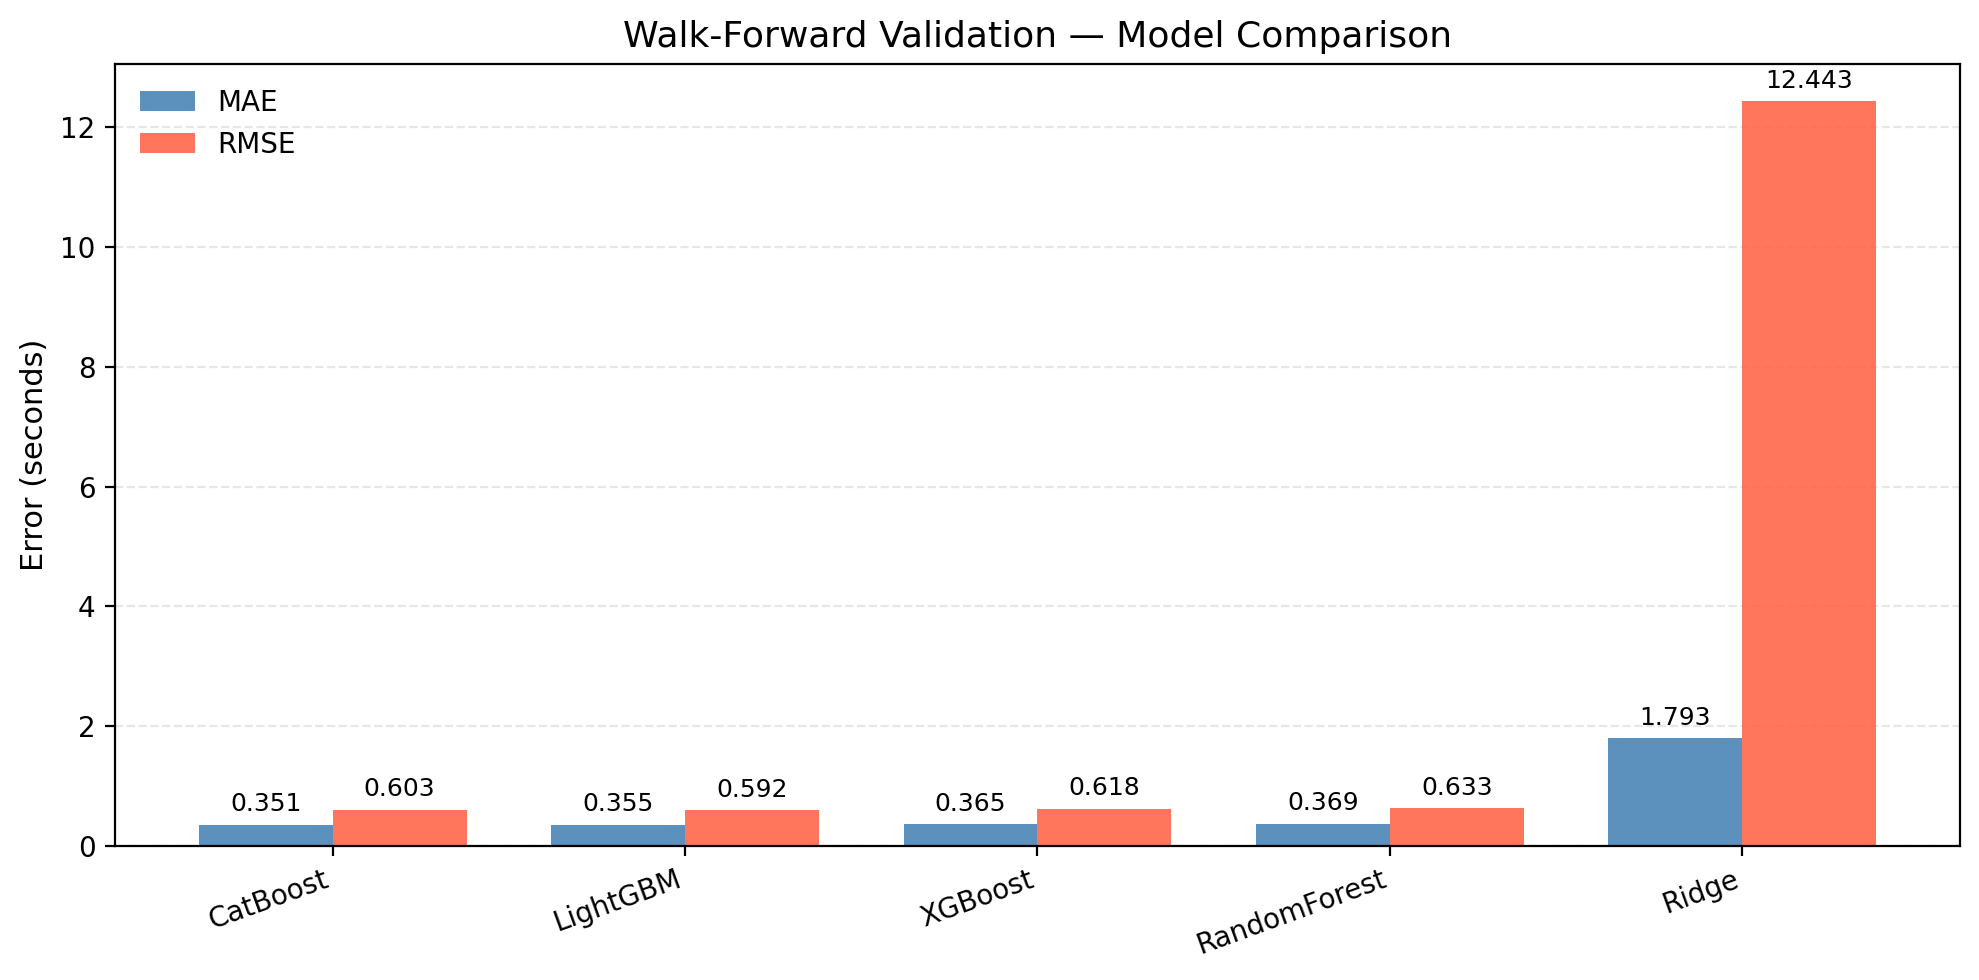
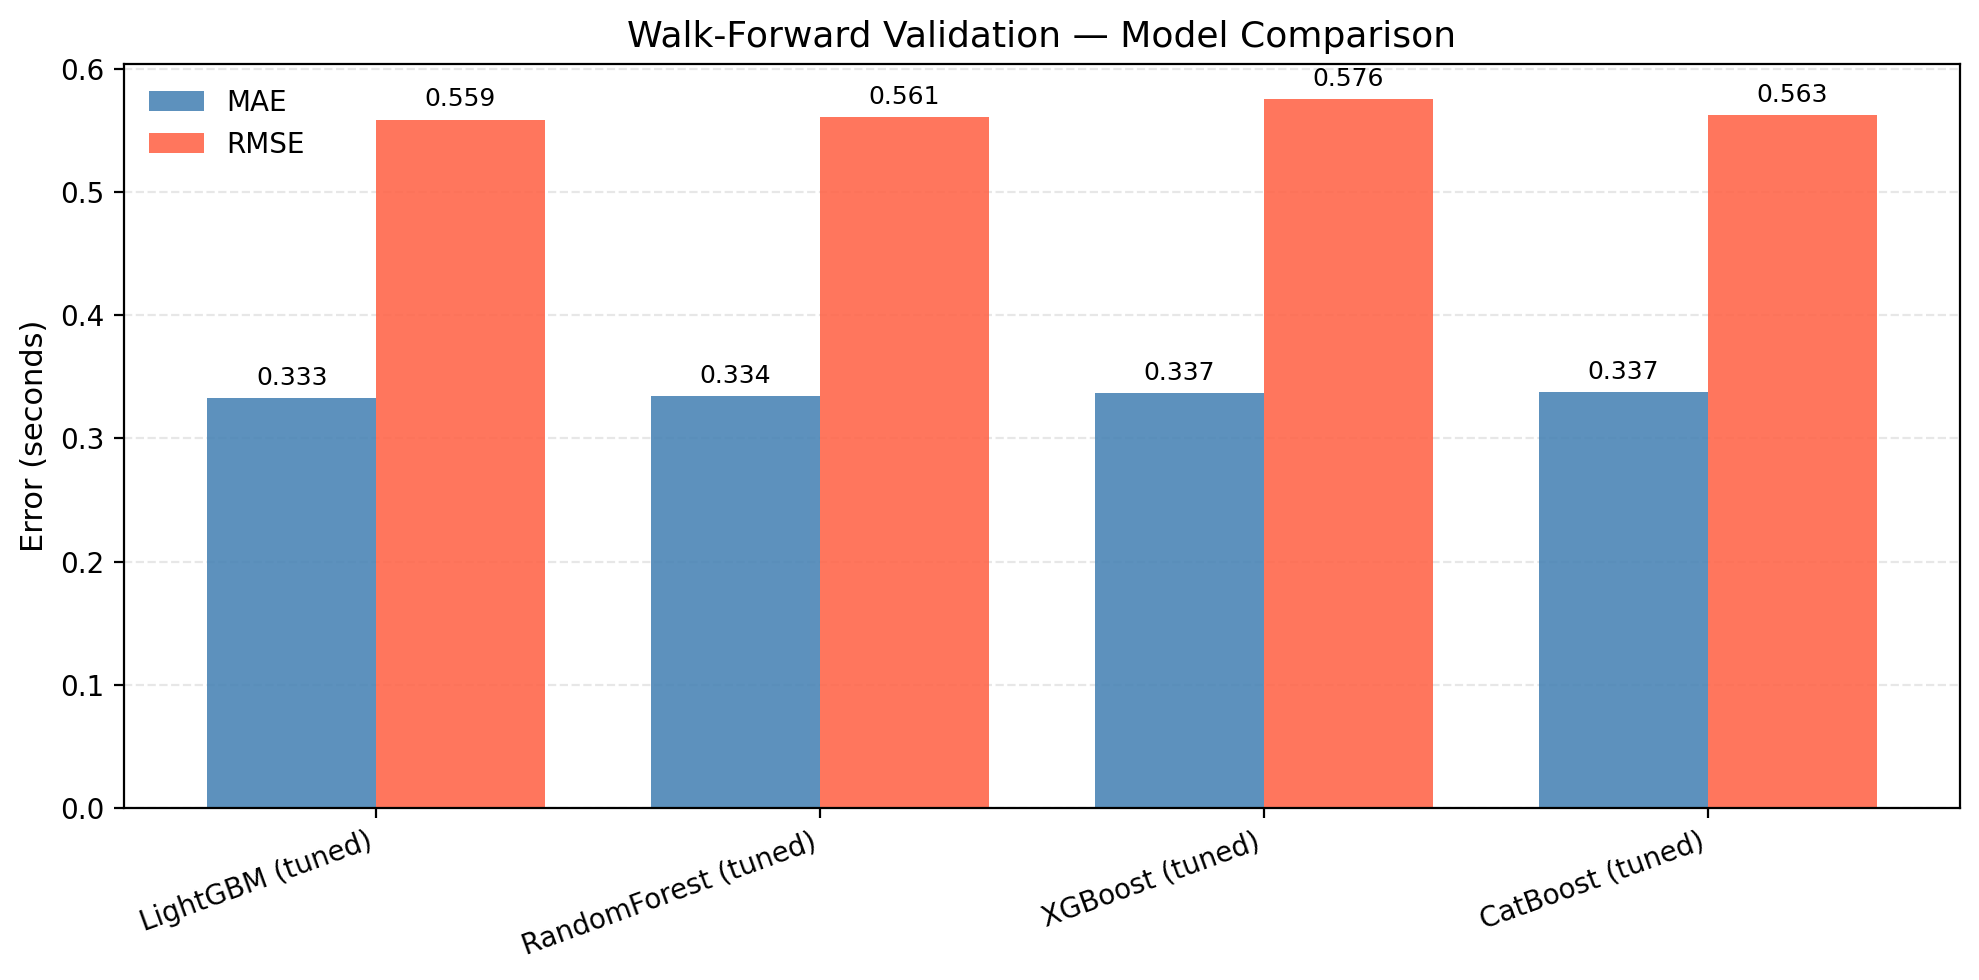
add hyperparameter tuning for 4 models (TimeSeriesSplit + optuna)

diff --git a/scripts/run_hyperparameter_tuning.py b/scripts/run_hyperparameter_tuning.py
@@ -1,0 +1,177 @@
+"""
+run_hyperparameter_tuning.py
+────────────────────────────
+Hyperparameter tuning for top boosting models using Optuna.
+
+Tuning using TimeSeriesSplit without data leakage with full walk-forward as final evaluation.
+
+Run from project root:
+    python scripts/run_hyperparameter_tuning.py
+    python scripts/run_hyperparameter_tuning.py --trials 50
+"""
+
+import os
+import sys
+import json
+import time
+import argparse
+import numpy as np
+import pandas as pd
+import optuna
+from sklearn.ensemble import RandomForestRegressor
+from sklearn.impute import SimpleImputer
+from sklearn.model_selection import TimeSeriesSplit, cross_val_score
+from sklearn.metrics import mean_absolute_error, mean_squared_error
+from sklearn.pipeline import Pipeline
+from xgboost import XGBRegressor
+from lightgbm import LGBMRegressor
+from catboost import CatBoostRegressor
+
+optuna.logging.set_verbosity(optuna.logging.WARNING)
+sys.path.insert(0, os.path.dirname(os.path.dirname(os.path.abspath(__file__))))
+
+from src.config import SUMMARIES_DIR, RESULTS_MODEL_DIR, MODEL_FEATURES, DATASET_ALL
+from src.utils import log, write_summary
+from src.modeling.training import run_season_walk_forward, convert_deltas_to_absolute_times, shift_telemetry_features
+from src.modeling.analysis import plot_model_comparison
+
+N_SPLITS  = 5
+N_JOBS_CV = 1
+
+
+def make_objective(model_name, X, y):
+    tscv = TimeSeriesSplit(n_splits=N_SPLITS)
+
+    def objective(trial):
+        if model_name == "RandomForest":
+            model = Pipeline([
+                ('imputer', SimpleImputer(strategy='median')),
+                ('model', RandomForestRegressor(
+                    n_estimators     = trial.suggest_int("n_estimators", 50, 300),
+                    max_depth        = trial.suggest_int("max_depth", 5, 20),
+                    max_features     = trial.suggest_float("max_features", 0.1, 0.8),
+                    min_samples_leaf = trial.suggest_int("min_samples_leaf", 1, 20),
+                    n_jobs=-1, random_state=42,
+                )),
+            ])
+        elif model_name == "XGBoost":
+            model = XGBRegressor(
+                n_estimators     = trial.suggest_int("n_estimators", 50, 400),
+                max_depth        = trial.suggest_int("max_depth", 3, 8),
+                learning_rate    = trial.suggest_float("learning_rate", 0.01, 0.3, log=True),
+                subsample        = trial.suggest_float("subsample", 0.6, 1.0),
+                colsample_bytree = trial.suggest_float("colsample_bytree", 0.5, 1.0),
+                min_child_weight = trial.suggest_int("min_child_weight", 1, 10),
+                n_jobs=-1, random_state=42, verbosity=0,
+            )
+        elif model_name == "LightGBM":
+            model = LGBMRegressor(
+                n_estimators      = trial.suggest_int("n_estimators", 50, 400),
+                max_depth         = trial.suggest_int("max_depth", 3, 8),
+                num_leaves        = trial.suggest_int("num_leaves", 15, 127),
+                learning_rate     = trial.suggest_float("learning_rate", 0.01, 0.3, log=True),
+                subsample         = trial.suggest_float("subsample", 0.6, 1.0),
+                colsample_bytree  = trial.suggest_float("colsample_bytree", 0.5, 1.0),
+                min_child_samples = trial.suggest_int("min_child_samples", 5, 50),
+                n_jobs=-1, random_state=42, verbose=-1,
+            )
+        elif model_name == "CatBoost":
+            model = CatBoostRegressor(
+                iterations    = trial.suggest_int("iterations", 50, 400),
+                depth         = trial.suggest_int("depth", 4, 8),
+                learning_rate = trial.suggest_float("learning_rate", 0.01, 0.3, log=True),
+                l2_leaf_reg   = trial.suggest_float("l2_leaf_reg", 1.0, 10.0),
+                random_state=42, verbose=0,
+            )
+
+        scores = cross_val_score(model, X, y, cv=tscv, scoring='neg_mean_absolute_error', n_jobs=N_JOBS_CV)
+        return -scores.mean()
+
+    return objective
+
+
+if __name__ == "__main__":
+    parser = argparse.ArgumentParser()
+    parser.add_argument('--trials', type=int, default=50)
+    args = parser.parse_args()
+
+    start_all = time.time()
+    summary_lines = []
+    summary_path = os.path.join(SUMMARIES_DIR, "summary_hyperparameter_tuning.txt")
+
+    df = pd.read_csv(DATASET_ALL)
+    df = shift_telemetry_features(df)
+
+    df_sorted = df.sort_values(['Year', 'RoundNumber']).reset_index(drop=True)
+    X = df_sorted[MODEL_FEATURES].values
+    y = df_sorted['Target_Delta'].values
+
+    MODELS_TO_TUNE = ["RandomForest", "XGBoost", "LightGBM", "CatBoost"]
+
+    best_params_all = {}
+    comparison_rows = []
+
+    for model_name in MODELS_TO_TUNE:
+        log(summary_lines, f"\n{'-'*45}")
+        log(summary_lines, f"Tuning: {model_name} ({args.trials} trials)")
+        log(summary_lines, f"{'-'*45}")
+
+        study = optuna.create_study(direction='minimize')
+        t0 = time.time()
+        study.optimize(make_objective(model_name, X, y), n_trials=args.trials, show_progress_bar=True)
+        tune_time = time.time() - t0
+
+        best_params = study.best_params
+        best_params_all[model_name] = best_params
+        log(summary_lines, f"Tuning completed in {tune_time:.1f} s")
+        log(summary_lines, f"Best MAE: {study.best_value:.4f} s")
+        log(summary_lines, f"Best params: {json.dumps(best_params, indent=2)}")
+
+        # final walk-forward with best params
+        log(summary_lines, f"\nFinal walk-forward validation with best params")
+        if model_name == "RandomForest":
+            model = Pipeline([
+                ('imputer', SimpleImputer(strategy='median')),
+                ('model', RandomForestRegressor(**best_params, n_jobs=-1, random_state=42)),
+            ])
+        elif model_name == "XGBoost":
+            model = XGBRegressor(**best_params, n_jobs=-1, random_state=42, verbosity=0)
+        elif model_name == "LightGBM":
+            model = LGBMRegressor(**best_params, n_jobs=-1, random_state=42, verbose=-1)
+        elif model_name == "CatBoost":
+            model = CatBoostRegressor(**best_params, random_state=42, verbose=0)
+
+        t1 = time.time()
+        results = run_season_walk_forward(
+            df, MODEL_FEATURES, model, summary_lines,
+            target='Target_Delta', min_train_races=20, print_progress=False
+        )
+        results = convert_deltas_to_absolute_times(results, df)
+        wf_time = time.time() - t1
+
+        mae  = mean_absolute_error(results['Actual'], results['Predicted'])
+        rmse = np.sqrt(mean_squared_error(results['Actual'], results['Predicted']))
+        log(summary_lines, f"Walk-forward MAE:  {mae:.3f} s")
+        log(summary_lines, f"Walk-forward RMSE: {rmse:.3f} s")
+        log(summary_lines, f"Walk-forward time: {wf_time:.1f} s")
+
+        comparison_rows.append({'Model': f"{model_name} (tuned)", 'MAE': mae, 'RMSE': rmse, 'Time_s': wf_time})
+
+        model_dir = os.path.join(RESULTS_MODEL_DIR, f"{model_name}_tuned")
+        os.makedirs(model_dir, exist_ok=True)
+        results.to_csv(os.path.join(model_dir, f"results_{model_name}_tuned.csv"), index=False)
+
+    # save all best params
+    params_path = os.path.join(RESULTS_MODEL_DIR, "best_params.json")
+    with open(params_path, 'w') as f:
+        json.dump(best_params_all, f, indent=2)
+    log(summary_lines, f"\nBest params saved to {params_path}")
+
+    log(summary_lines, f"\n{'-'*50}")
+    log(summary_lines, "Tuned Model Comparison")
+    log(summary_lines, f"{'-'*50}")
+    comp_df = plot_model_comparison(comparison_rows, out_dir=RESULTS_MODEL_DIR)
+    log(summary_lines, comp_df.to_string(index=False))
+    log(summary_lines, f"\nTotal time: {time.time() - start_all:.1f} s")
+
+    write_summary(summary_lines, summary_path)
